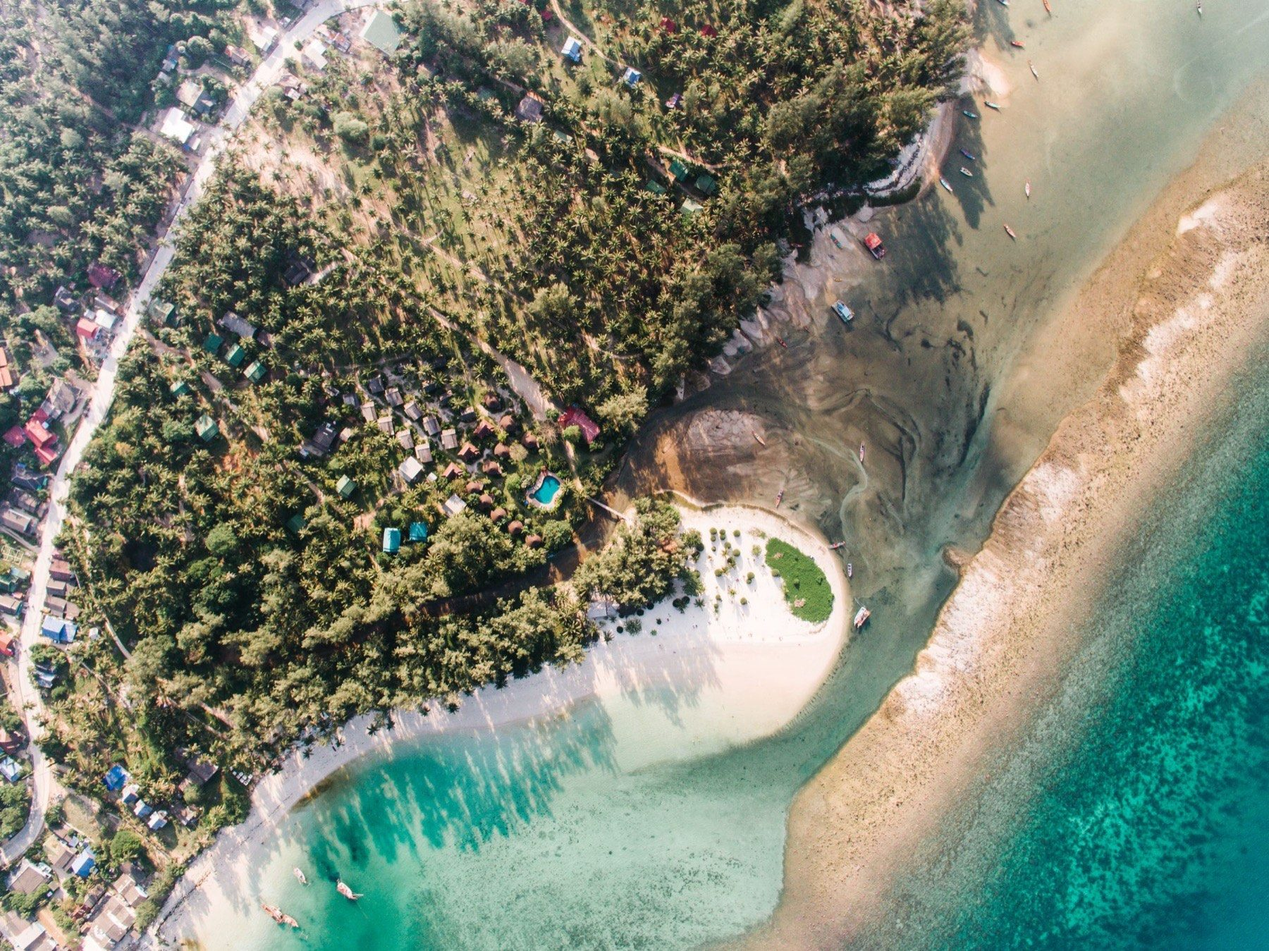
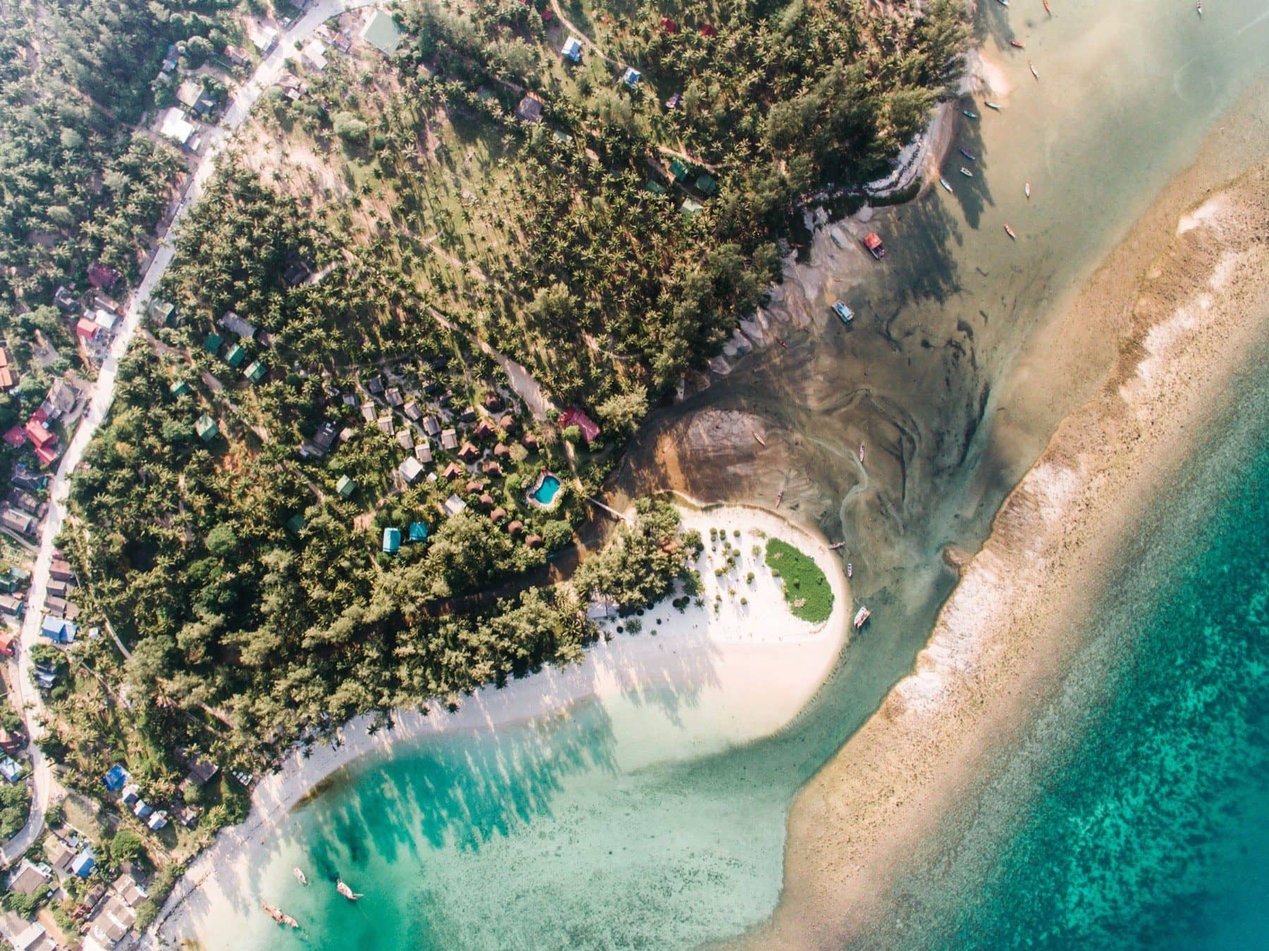
feat(site): волна 2 — тонкий фильтр-бар при скролле, статьи на главной, LCP-диета фото
- /listings: липкий фильтр-бар на десктопе сворачивается при прокрутке в
  тонкую строку «фильтры · N» (кнопка разворачивает обратно, у верха страницы
  бар всегда полный, гистерезис 120/320px) — раньше на средних экранах чипы
  враппились в 3-4 ряда и плита закрывала половину вьюпорта. Пилюли активных
  фильтров остаются видны и в свёрнутом виде.
- Главная: секция «Guides & journal / Гиды и журнал» — 3 свежие статьи
  конвейера (EN+RU, без статей секция не рендерится).
- LCP-диета: hero-фото пережаты mozjpeg q70 (3.1МБ → 1.7МБ, LCP-кадр
  373→204КБ) — пути не менялись, ссылки не тронуты.
- Десктопный sticky-CTA карточки не понадобился — правая колонка с формой
  уже липкая.

Guide: site | 📓 Главная теперь показывает 3 свежие статьи журнала (EN+RU). Фильтры каталога на десктопе сворачиваются при прокрутке в тонкую строку — объекты видно, плита не мешает. Фото главной похудели вдвое — первая отрисовка быстрее.

diff --git a/src/components/sections/home-articles.tsx b/src/components/sections/home-articles.tsx
@@ -1,0 +1,95 @@
+import Link from "next/link";
+import type { Route } from "next";
+import { ArrowRight } from "lucide-react";
+import { SectionEyebrow } from "./section-eyebrow";
+import { Appear } from "@/components/motion/appear";
+import { getAllBlogPosts } from "@/lib/data/articles";
+import type { Locale } from "@/lib/i18n/dictionaries";
+
+const COPY = {
+  en: {
+    eyebrow: "Guides & journal",
+    title: "Do the homework with us.",
+    lede: "Due diligence, leasehold mechanics, what villas actually earn — answered in the open.",
+    all: "All articles",
+    read: "Read",
+  },
+  ru: {
+    eyebrow: "Гиды и журнал",
+    title: "Разбираемся вместе.",
+    lede: "Due diligence, механика лизхолда, сколько реально зарабатывают виллы — отвечаем открыто.",
+    all: "Все статьи",
+    read: "Читать",
+  },
+} as const;
+
+/**
+ * Три свежие статьи журнала на главной: конвейер пишет EN+RU ежедневно, но с
+ * главной контента не было видно — а это и доверие, и SEO/AEO. Без статей
+ * нужной локали секция не рендерится.
+ */
+export async function HomeArticles({ locale }: { locale: Locale }) {
+  const t = COPY[locale];
+  const base = locale === "ru" ? "/ru" : "";
+  let posts: Awaited<ReturnType<typeof getAllBlogPosts>> = [];
+  try {
+    posts = (await getAllBlogPosts(locale)).slice(0, 3);
+  } catch {
+    /* источник статей недоступен — секцию просто не показываем */
+  }
+  if (!posts.length) return null;
+
+  return (
+    <section className="container-prose relative isolate py-16 md:py-24">
+      <div
+        className="pointer-events-none absolute -inset-x-16 inset-y-0 -z-10 bg-[radial-gradient(70%_90%_at_12%_0%,rgba(217,138,30,0.06),transparent_62%)]"
+        aria-hidden
+      />
+      <div className="flex flex-wrap items-end justify-between gap-6">
+        <div>
+          <SectionEyebrow>{t.eyebrow}</SectionEyebrow>
+          <h2 className="mt-5 max-w-3xl text-balance font-serif text-3xl text-forest-900 md:text-4xl">
+            {t.title}
+          </h2>
+          <p className="mt-4 max-w-xl text-base text-forest-500/75">{t.lede}</p>
+        </div>
+        <Link
+          href={`${base}/blog` as Route}
+          className="group inline-flex items-center gap-1.5 rounded-sm border border-forest-500/25 px-4 py-2.5 text-sm font-medium text-forest-500 transition-colors hover:border-brass-500/60 hover:text-brass-700"
+        >
+          {t.all}
+          <ArrowRight className="h-4 w-4 transition-transform group-hover:translate-x-0.5" />
+        </Link>
+      </div>
+
+      <div className="mt-10 grid gap-6 md:grid-cols-3">
+        {posts.map((p, i) => (
+          <Appear key={p.slug} delay={(i % 3) * 0.05} className="h-full">
+            <Link
+              href={`${base}/blog/${p.slug}` as Route}
+              className="group block h-full rounded-bezel bg-cream-200/50 p-1.5 ring-1 ring-forest-900/5 transition-shadow duration-500 ease-[cubic-bezier(0.32,0.72,0,1)] hover:shadow-soft"
+            >
+              <div className="flex h-full flex-col rounded-core bg-cream-50 p-6 shadow-bezel">
+                <div className="flex items-center gap-2 text-xs font-medium uppercase tracking-[0.2em] text-brass-700">
+                  <span>{p.topic}</span>
+                  <span aria-hidden className="text-forest-500/30">
+                    ·
+                  </span>
+                  <span className="text-forest-500/50">{p.readMins} min</span>
+                </div>
+                <h3 className="mt-3 font-serif text-xl text-forest-900">{p.title}</h3>
+                <p className="mt-3 line-clamp-3 text-sm leading-relaxed text-forest-500/85">
+                  {p.excerpt}
+                </p>
+                <span className="mt-auto inline-flex items-center gap-1.5 pt-5 text-sm font-medium text-forest-500 transition-colors group-hover:text-brass-500">
+                  {t.read}
+                  <ArrowRight className="h-3.5 w-3.5" />
+                </span>
+              </div>
+            </Link>
+          </Appear>
+        ))}
+      </div>
+    </section>
+  );
+}

diff --git a/src/components/objects/listings-filter-bar.tsx b/src/components/objects/listings-filter-bar.tsx
@@ -52,6 +52,28 @@ export function ListingsFilterBar({ current, options, totalCount }: Props) {
   // Secondary filters (tenure, views, beds) collapse on mobile to keep the bar
   // short; desktop always shows them via `lg:flex`.
   const [showMore, setShowMore] = useState(false);
+  // Десктоп: при прокрутке каталога бар сворачивается в тонкую строку — иначе
+  // на средних экранах чипы враппятся в 3-4 ряда и липкая плита закрывает
+  // половину вьюпорта. Разворот кнопкой «фильтры» прикалывает бар до возврата
+  // к верху страницы (гистерезис 120/320px — без дёрганья на границе).
+  const [collapsed, setCollapsed] = useState(false);
+  const pinnedRef = useRef(false);
+
+  useEffect(() => {
+    const onScroll = () => {
+      const y = window.scrollY;
+      if (y < 120) {
+        pinnedRef.current = false;
+        setCollapsed(false);
+        return;
+      }
+      if (pinnedRef.current) return;
+      if (y > 320) setCollapsed(true);
+    };
+    onScroll();
+    window.addEventListener("scroll", onScroll, { passive: true });
+    return () => window.removeEventListener("scroll", onScroll);
+  }, []);
 
   function update(mutator: (p: URLSearchParams) => void) {
     const next = new URLSearchParams(params.toString());
@@ -243,10 +265,33 @@ export function ListingsFilterBar({ current, options, totalCount }: Props) {
     <div
       className={cn(
         "sticky top-16 z-30 -mx-6 mt-8 border-y border-forest-500/10 bg-cream-100/90 px-6 py-4 backdrop-blur-md md:top-20 md:-mx-8 md:px-8",
+        collapsed && "lg:py-2.5",
         pending && "opacity-90",
       )}
     >
-      <div className="flex flex-wrap items-center gap-2">
+      {collapsed ? (
+        <div className="hidden items-center gap-2 lg:flex">
+          <button
+            type="button"
+            onClick={() => {
+              pinnedRef.current = true;
+              setCollapsed(false);
+            }}
+            className="inline-flex items-center gap-1.5 rounded-sm border border-forest-500/20 bg-cream-50 px-3 py-1.5 text-xs font-medium text-forest-500 transition-colors hover:border-brass-500/50 hover:text-brass-700"
+          >
+            <SlidersHorizontal className="h-3 w-3" />
+            {dict.more}
+            {activeFilters.length > 0 ? (
+              <span className="inline-flex h-4 min-w-4 items-center justify-center rounded-full bg-panel px-1 text-[10px] text-panel-fg">
+                {activeFilters.length}
+              </span>
+            ) : null}
+            <ChevronDown className="h-3 w-3" />
+          </button>
+        </div>
+      ) : null}
+
+      <div className={cn("flex flex-wrap items-center gap-2", collapsed && "lg:hidden")}>
         {/* Buy / Rent — primary mode switch (the market is pivoting to leasehold).
             Hidden when the catalog has no rentals: leaseholds browse under Buy,
             so a lone Rent tab would only ever open a dead empty state. */}

diff --git a/src/components/sections/localized-home.tsx b/src/components/sections/localized-home.tsx
@@ -8,6 +8,7 @@ import { HeroFall } from "@/components/sections/hero-fall";
 import { FeaturedListings } from "@/components/sections/featured-listings";
 import { DistrictsBento } from "@/components/sections/districts-bento";
 import { Testimonials } from "@/components/sections/testimonials";
+import { HomeArticles } from "@/components/sections/home-articles";
 import { Reveal } from "@/components/sections/reveal";
 import { Appear } from "@/components/motion/appear";
 import { Magnetic } from "@/components/motion/magnetic";
@@ -151,6 +152,8 @@ export function LocalizedHome({ dict, locale }: { dict: HomeDict; locale: Locale
         <FeaturedListings locale={locale} />
 
         <Testimonials locale={locale} />
+
+        <HomeArticles locale={locale} />
       </Reveal>
 
       {/* Closing CTA — full-bleed coastal scene bookending the dark hero */}
